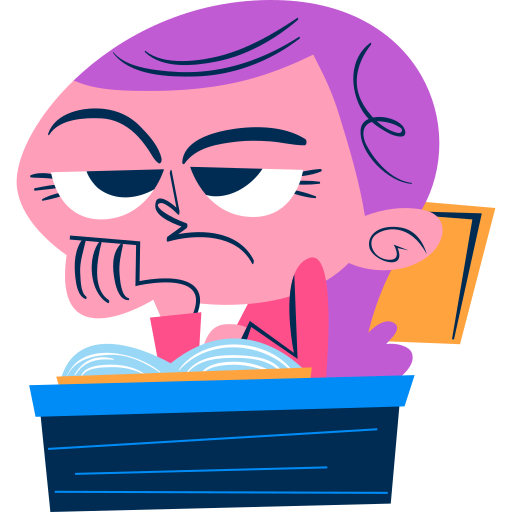
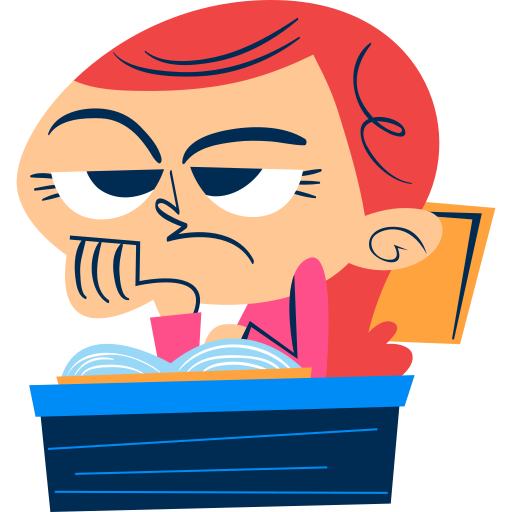
onboard Colors

diff --git a/studymate/lib/screens/OnBoard/onBoard.dart b/studymate/lib/screens/OnBoard/onBoard.dart
@@ -57,7 +57,7 @@ class _OnBoardState extends State<OnBoard> {
         borderRadius: BorderRadius.all(
           Radius.circular(50),
         ),
-        color: Color.fromARGB(255, 227, 172, 249),
+        color: Color.fromARGB(255, 233, 64, 87),
       ),
       margin: const EdgeInsets.only(right: 5),
       height: 10,
@@ -103,7 +103,7 @@ class _OnBoardState extends State<OnBoard> {
                                   fontFamily: "Crimson Pro",
                                   fontWeight: FontWeight.w600,
                                   fontSize: (width <= 550) ? 30 : 35,
-                                  color: Color.fromARGB(255, 227, 172, 249)),
+                                  color: Color.fromARGB(255, 233, 64, 87)),
                             ),
                             const SizedBox(height: 15),
                             Text(
@@ -146,7 +146,7 @@ class _OnBoardState extends State<OnBoard> {
                             },
                             style: ElevatedButton.styleFrom(
                               backgroundColor:
-                                  const Color.fromARGB(255, 227, 172, 249),
+                                  const Color.fromARGB(255, 233, 64, 87),
                               shape: RoundedRectangleBorder(
                                 borderRadius: BorderRadius.circular(50),
                               ),
@@ -158,7 +158,8 @@ class _OnBoardState extends State<OnBoard> {
                               textStyle: TextStyle(
                                   fontSize: (width <= 550) ? 13 : 17,
                                   fontFamily: "Crimson Pro",
-                                  color: const Color.fromARGB(255, 0, 0, 0)),
+                                  color:
+                                      const Color.fromARGB(255, 255, 255, 255)),
                             ),
                             child: const Text("START"),
                           ),
@@ -193,7 +194,7 @@ class _OnBoardState extends State<OnBoard> {
                                 },
                                 style: ElevatedButton.styleFrom(
                                   backgroundColor:
-                                      const Color.fromARGB(255, 227, 172, 249),
+                                      const Color.fromARGB(255, 233, 64, 87),
                                   shape: RoundedRectangleBorder(
                                     borderRadius: BorderRadius.circular(50),
                                   ),
@@ -204,7 +205,8 @@ class _OnBoardState extends State<OnBoard> {
                                       : const EdgeInsets.symmetric(
                                           horizontal: 30, vertical: 25),
                                   textStyle: TextStyle(
-                                      color: const Color.fromARGB(255, 0, 0, 0),
+                                      color: const Color.fromARGB(
+                                          255, 255, 255, 255),
                                       fontSize: (width <= 550) ? 13 : 17),
                                 ),
                                 child: const Text("NEXT"),
